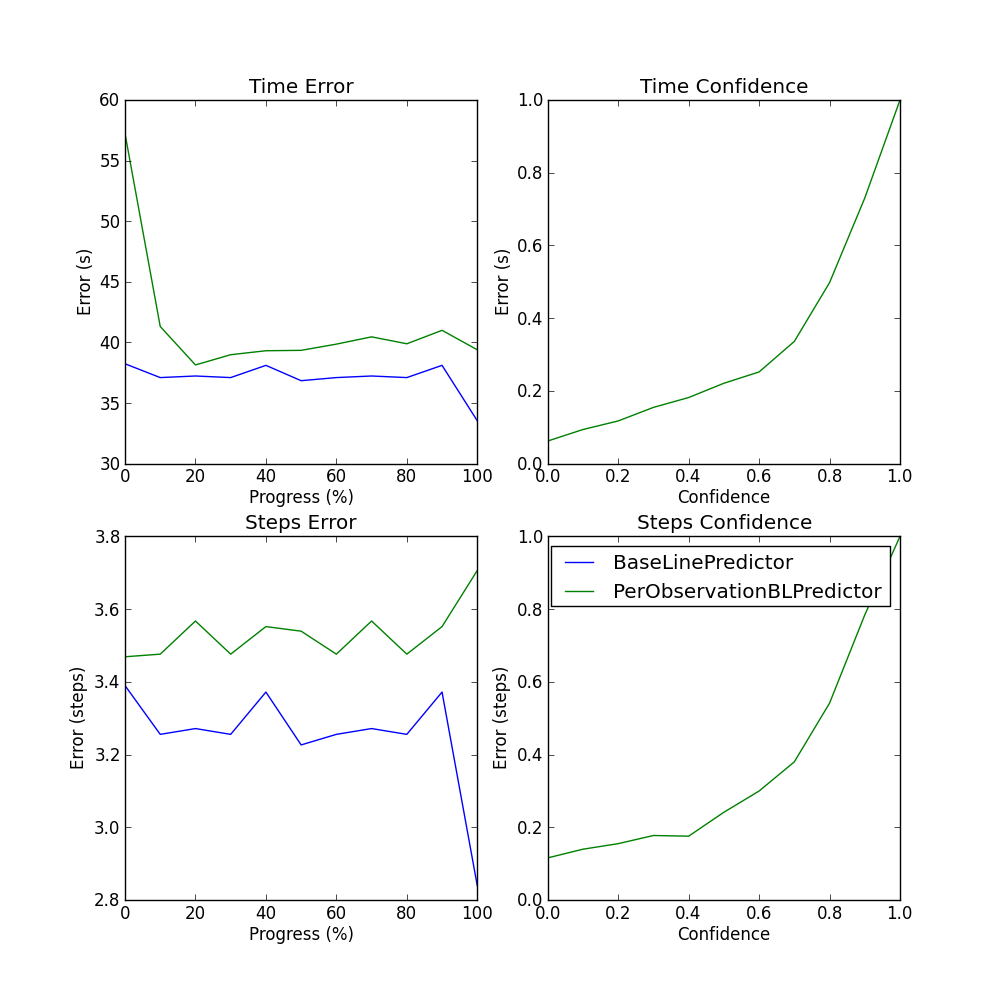
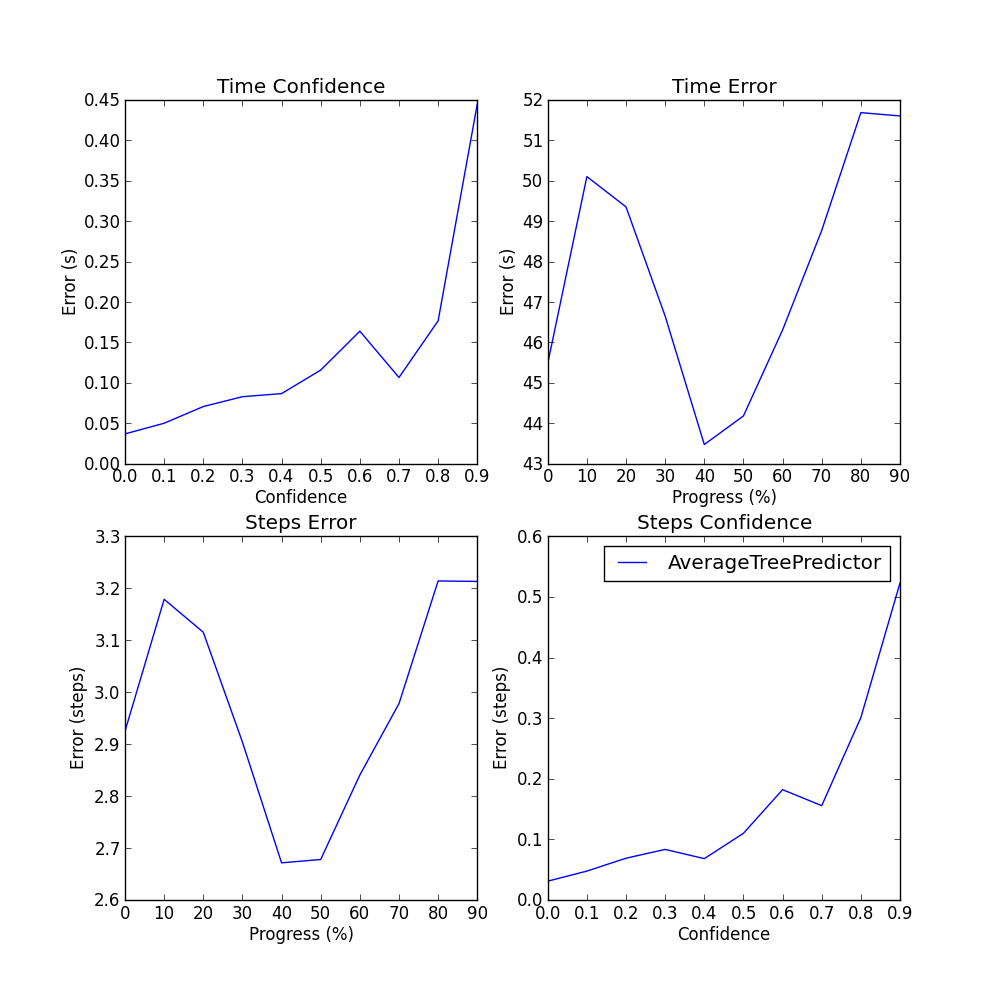
Bugfixes & results

diff --git a/src/com/beinformed/research/labs/dialogprogress/testing/PredictorTester.java b/src/com/beinformed/research/labs/dialogprogress/testing/PredictorTester.java
@@ -18,10 +18,10 @@ public class PredictorTester {
 		String outputLoc = args[1];
 
 		List<Predictor> predictors = new ArrayList<Predictor>();
-		predictors.add(new BaseLinePredictor(PredictionUnit.Time));
-		predictors.add(new BaseLinePredictor(PredictionUnit.Steps));
-		predictors.add(new PerObservationBLPredictor(PredictionUnit.Time));
-		predictors.add(new PerObservationBLPredictor(PredictionUnit.Steps));
+		predictors.add(new AverageTreePredictor(PredictionUnit.Time, false));
+		predictors.add(new AverageTreePredictor(PredictionUnit.Steps, false));
+		//predictors.add(new PerObservationBLPredictor(PredictionUnit.Time));
+		//predictors.add(new PerObservationBLPredictor(PredictionUnit.Steps));
 
 		TestFrame frame = new TestFrame(predictors);
 
@@ -46,7 +46,8 @@ public class PredictorTester {
 			ResultWriter writer = new ResultWriter(outputLoc);
 			writer.write(result);
 			writer.close();
-			System.out.println("Written results to " + outputLoc);
+			System.out.println("Written results to " + outputLoc + ". Generating graph...");
+			
 			Process python = new ProcessBuilder("python", "src/plot.py", outputLoc, "results/graph.png")
 					.start();
 
@@ -58,6 +59,7 @@ public class PredictorTester {
 				System.out.println(line);
 			}
 			input.close();
+			System.out.println("Graph created");
 
 		} catch (IOException e) {
 			e.printStackTrace();

diff --git a/src/com/beinformed/research/labs/dialogprogress/PathInfo.java b/src/com/beinformed/research/labs/dialogprogress/PathInfo.java
@@ -1,7 +1,5 @@
 package com.beinformed.research.labs.dialogprogress;
 
-import java.util.ArrayList;
-import java.util.List;
 import java.util.Set;
 import java.util.TreeSet;
 
@@ -11,13 +9,15 @@ public class PathInfo {
 	private long total;
 	private PredictionUnit unit;
 	private Set<Path> children;
+	private Path path;
 	
-	public PathInfo(PredictionUnit unit) { 
+	public PathInfo(PredictionUnit unit, Path path) { 
 		this.unit = unit;
+		this.path = path;
 		this.children = new TreeSet<Path>();
 	}
-	public PathInfo(PredictionUnit unit, Observation obs, Observation complete) {
-		this(unit);
+	public PathInfo(PredictionUnit unit, Path path, Observation obs, Observation complete) {
+		this(unit, path);
 		add(obs, complete);
 	}
 	
@@ -26,7 +26,8 @@ public class PathInfo {
 		total += complete.getLearnValue(unit) - obs.getLearnValue(unit);
 	}
 	public void addChild(Path path) {
-		this.children.add(path);
+		if(!path.equals(this.path))
+			children.add(path);
 	}
 	
 	public int getFrequency() {

diff --git a/src/com/beinformed/research/labs/dialogprogress/AverageTreePredictor.java b/src/com/beinformed/research/labs/dialogprogress/AverageTreePredictor.java
@@ -37,7 +37,7 @@ public class AverageTreePredictor implements Predictor {
 		if(paths.containsKey(path))
 			paths.get(path).add(part, complete);
 		else
-			paths.put(path, new PathInfo(unit, part, complete));
+			paths.put(path, new PathInfo(unit, path, part, complete));
 	}
 
 	@Override
@@ -54,7 +54,7 @@ public class AverageTreePredictor implements Predictor {
 		double weight = info.getFrequency() / (double) totalFrequency;
 		
 		int actualPrediction = (int) ((parentPrediction + prediction) / (parentWeight / weight));
-		double confidence = getProportion(parentInfo, info) * weight * (data.getNoQuestions() / (double)maxLength);
+		double confidence = getProportion(parentInfo, info) * (data.getNoQuestions() / (double)maxLength);
 		
 		return new Prediction(confidence, actualPrediction, actualPrediction, unit);
 	}

diff --git a/src/com/beinformed/research/labs/dialogprogress/Path.java b/src/com/beinformed/research/labs/dialogprogress/Path.java
@@ -1,6 +1,6 @@
 package com.beinformed.research.labs.dialogprogress;
 
-class Path {
+class Path implements Comparable<Path>{
 	private String lookup;
 	private String[] path;
 	
@@ -19,12 +19,15 @@ class Path {
 	}
 	private void createLookup() {
 		String result = path[0];
-		for(int i = 0; i < path.length; i++)
+		for(int i = 1; i < path.length; i++)
 			result += "-" + path[i];
 		lookup = result;
 	}
 
 	public Path getParent() {
+		if(path.length < 2)
+			return this;
+		
 		Path parent = new Path();
 		parent.path = new String[path.length - 1];
 		
@@ -45,5 +48,9 @@ class Path {
 	@Override
 	public int hashCode() {
 		return lookup.hashCode();
+	}
+	@Override
+	public int compareTo(Path other) {
+		return lookup.compareTo(other.lookup);
 	}
 }

diff --git a/src/com/beinformed/research/labs/dialogprogress/Observation.java b/src/com/beinformed/research/labs/dialogprogress/Observation.java
@@ -72,7 +72,10 @@ public class Observation {
 	 * @return
 	 */
 	public Question getLastAsked() {
-		return questions.get(questions.size() - 1);
+		if(questions.size() > 1)
+			return questions.get(questions.size() - 1);
+		else
+			return questions.get(0);
 	}
 	public Question getFirstAsked() {
 		return questions.get(0);
@@ -96,7 +99,10 @@ public class Observation {
 		return observations;
 	}
 	public Observation getParent() {
-		return new Observation(false, form, questions.subList(0, questions.size() - 1));
+		if(questions.size() > 1)
+			return new Observation(false, form, questions.subList(0, questions.size() - 1));
+		else
+			return this;
 	}
 	
 	public String toString() {

diff --git a/src/com/beinformed/research/labs/dialogprogress/testing/DataReader.java b/src/com/beinformed/research/labs/dialogprogress/testing/DataReader.java
@@ -81,7 +81,9 @@ public class DataReader {
 
 	private List<Question> parseQuestion(DataLine line) {
 		List<Question> result = new ArrayList<Question>();
-		String[] encodedQA = line.answer.split("DataAnchor ");
+		String[] encodedQA = line.answer.split(", DataAnchor ");
+		if(encodedQA.length >= 1)
+			encodedQA[0] = encodedQA[0].substring("DataAnchor ".length());
 		
 		for(String s : encodedQA) {
 			String encodedQuestion = s.endsWith(",") ? s.substring(0, s.length() - 1) : s;

diff --git a/src/com/beinformed/research/labs/dialogprogress/testing/RandomDataGenerator.java b/src/com/beinformed/research/labs/dialogprogress/testing/RandomDataGenerator.java
@@ -19,7 +19,7 @@ public class RandomDataGenerator {
 		System.out.println("Writing data to " + location);
 		try {
 			DataGenerator gen = new DataGenerator(location);
-			gen.generate(1000);
+			gen.generate(10000);
 			gen.close();
 		} catch (IOException e) {
 			e.printStackTrace();
